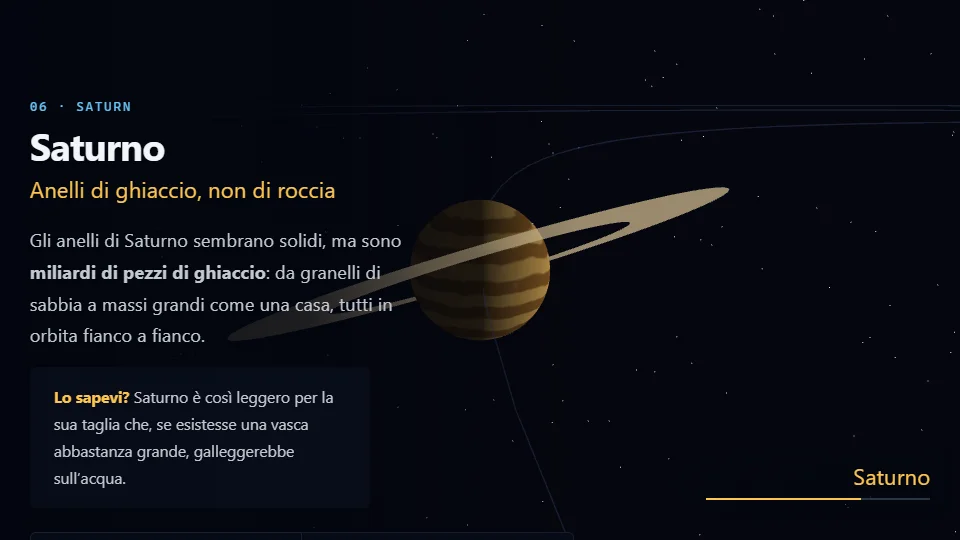
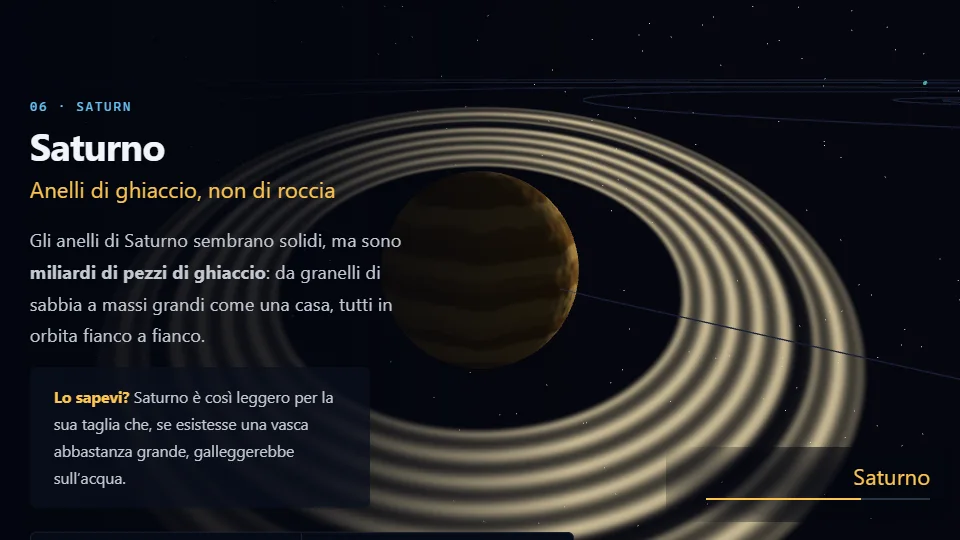
fix(demos): give the planets a surface, and let the camera travel (#34)
Raised by a viewer: the planets looked flat next to abyss, and moving
between them felt like a cut.

The planets were painted balls because the noise tinted their colour but
never bent the normal, so light slid across a perfect sphere. abyss bends
the normal along a noise gradient; porting that block is most of the
difference.

The camera teleported because it picked planets[floor(seg)] and let a
position lerp hide the jump — but the target itself was discontinuous,
and local was computed and never used. The aim point is now interpolated
between two planets, with a dwell on each and the crossing at the end of
its panel.

That exposed a third: every planet was a speck, because the offset
compounded to about 14x the radius. Distance is now solved for the
framing, d = r / tan(F * fov/2), taking Jupiter from 17% of frame height
to 35%.

Jupiter now has its Great Red Spot and Saturn's rings the Cassini
division, because the copy tells children about both and a render that
contradicts its own caption is worse than a plainer one. Plus rim light,
polar caps, a softer terminator, and a corona shader for the Sun.

Bumps the plugin to 1.7.1.

diff --git a/docs/demos/orbit/scene.js b/docs/demos/orbit/scene.js
@@ -28,8 +28,8 @@ const VERT = /* glsl */ `
    programs and keeps the whole family looking like one drawing. */
 const FRAG = /* glsl */ `
   precision highp float;
-  uniform vec3 uA, uB, uC;
-  uniform float uKind, uTime, uLit;
+  uniform vec3 uA, uB, uC, uRim;
+  uniform float uKind, uTime, uLit, uCap, uSpot, uSpotX, uBump, uBumpF;
   varying vec3 vPos;
   varying vec3 vWorld;
   varying vec3 vNormalW;
@@ -49,29 +49,64 @@ const FRAG = /* glsl */ `
     vec3 col;
 
     if (uKind < 0.5) {
-      // rocky: craters and patches
-      float m = fbm(n * 5.0);
-      col = mix(uA, uB, smoothstep(0.35, 0.72, m));
-      col = mix(col, uC, smoothstep(0.72, 0.95, fbm(n * 12.0)) * 0.55);
+      // rocky: continents or craters, plus ice where it is cold
+      float m = fbm(n * 4.2);
+      col = mix(uA, uB, smoothstep(0.36, 0.70, m));
+      col = mix(col, uC, smoothstep(0.70, 0.94, fbm(n * 11.0)) * 0.5);
+      // polar caps — every rocky planet here has them, and children look for them
+      float cap = smoothstep(0.74, 0.93, abs(n.y) - fbm(n * 5.0) * 0.10);
+      col = mix(col, vec3(0.93, 0.95, 0.99), cap * uCap);
     } else if (uKind < 1.5) {
-      // banded: latitude stripes, warped so they are not ruled lines
-      float lat = n.y + fbm(n * 2.6) * 0.16;
-      float band = sin(lat * 17.0) * 0.5 + 0.5;
-      col = mix(uA, uB, smoothstep(0.32, 0.68, band));
-      col = mix(col, uC, smoothstep(0.80, 1.0, fbm(n * 3.4)) * 0.7);
+      // banded: latitude stripes, warped so they never read as ruled lines
+      float lat = n.y + fbm(n * 2.4) * 0.18;
+      float band = sin(lat * 15.0) * 0.5 + 0.5;
+      band = mix(band, sin(lat * 31.0) * 0.5 + 0.5, 0.35);   // finer belts inside
+      col = mix(uA, uB, smoothstep(0.30, 0.70, band));
+      col = mix(col, uC, smoothstep(0.78, 1.0, fbm(n * 3.2)) * 0.6);
+
+      /* The Great Red Spot. The copy on the page tells children about it, so
+         the planet has to actually have one — a render that contradicts its
+         own caption is worse than a plainer render. */
+      vec2 sp = vec2(atan(n.z, n.x), asin(clamp(n.y, -1.0, 1.0)));
+      vec2 d = vec2((sp.x - uSpotX) * 0.55, sp.y + 0.32);
+      float spot = 1.0 - smoothstep(0.0, 0.30, length(d));
+      col = mix(col, vec3(0.72, 0.30, 0.20), spot * uSpot);
     } else {
-      // icy: smooth, faintly mottled
-      float m = fbm(n * 3.0);
-      col = mix(uA, uB, smoothstep(0.40, 0.75, m));
+      // icy: smooth, faintly mottled, with a brighter pole
+      float m = fbm(n * 2.6);
+      col = mix(uA, uB, smoothstep(0.40, 0.78, m));
+      col = mix(col, uC, smoothstep(0.80, 1.0, abs(n.y)) * 0.35);
     }
 
     /* One sun, at the origin. The first version dotted a view-space normal
        against a world-space direction and every planet came out nearly black:
        the spaces have to match. */
+    vec3 N = normalize(vNormalW);
+
+    /* Bend the normal along the gradient of the same field that coloured the
+       surface, so the light agrees with what you can see. This one block is
+       the difference between a painted ball and a world. */
+    float e = 0.035;
+    float h0 = fbm(n * uBumpF);
+    vec3 grad = vec3(
+      fbm(n * uBumpF + vec3(e, 0.0, 0.0)) - h0,
+      fbm(n * uBumpF + vec3(0.0, e, 0.0)) - h0,
+      fbm(n * uBumpF + vec3(0.0, 0.0, e)) - h0) / e;
+    N = normalize(N - (grad - N * dot(grad, N)) * uBump);
+
     vec3 toSun = normalize(-vWorld);
-    float lam = max(dot(normalize(vNormalW), toSun), 0.0);
-    float sun = mix(0.22, 1.0, pow(lam, 0.65));
-    gl_FragColor = vec4(col * mix(1.0, sun, uLit), 1.0);
+    float lam = max(dot(N, toSun), 0.0);
+    // a soft terminator rather than a hard one: real ones are not knife edges
+    float sun = mix(0.18, 1.0, smoothstep(-0.12, 0.55, dot(N, toSun)) * 0.65 + pow(lam, 0.8) * 0.35);
+    col *= mix(1.0, sun, uLit);
+
+    /* Rim light along the lit limb. On a plain sphere this one term is most of
+       what separates "a ball" from "a world with air around it". */
+    vec3 V = normalize(cameraPosition - vWorld);
+    float rim = pow(1.0 - max(dot(N, V), 0.0), 3.0) * max(dot(N, toSun) + 0.35, 0.0);
+    col += uRim * rim * 0.9;
+
+    gl_FragColor = vec4(col, 1.0);
   }`;
 
 export function createOrbit({ canvas, data } = {}) {
@@ -103,12 +138,31 @@ export function createOrbit({ canvas, data } = {}) {
 
   /* ---- the sun ---- */
   const sunGeo = new THREE.SphereGeometry(1, 40, 28);
-  const sun = new THREE.Mesh(sunGeo, new THREE.MeshBasicMaterial({ color: 0xffcf6b }));
+  let sunCorona = null;
+  const sun = new THREE.Mesh(sunGeo, new THREE.MeshBasicMaterial({ color: 0xffe0a0 }));
   scene.add(sun);
   {
-    const halo = new THREE.Mesh(new THREE.SphereGeometry(1.55, 32, 20),
-      new THREE.MeshBasicMaterial({ color: 0xffb03a, transparent: true, opacity: 0.16 }));
-    sun.add(halo);
+    /* An opaque-ish sphere at 16% read as a muddy brown ring. A corona has to
+       fade to nothing at its edge, so it is a shader, and it faces the camera
+       so it never shows as a sphere silhouette. */
+    const corona = new THREE.Mesh(new THREE.PlaneGeometry(7, 7), new THREE.ShaderMaterial({
+      transparent: true, depthWrite: false, blending: THREE.AdditiveBlending,
+      uniforms: { uTime: { value: 0 } },
+      vertexShader: `varying vec2 vUv; void main(){ vUv=uv;
+        gl_Position=projectionMatrix*modelViewMatrix*vec4(position,1.0); }`,
+      fragmentShader: `precision mediump float; varying vec2 vUv; uniform float uTime;
+        void main(){
+          float d = length(vUv - 0.5) * 2.0;
+          float core = pow(max(0.0, 1.0 - d * 3.2), 2.0);
+          float glow = pow(max(0.0, 1.0 - d), 3.4) * 0.55;
+          float flick = 0.94 + 0.06 * sin(uTime * 1.7);
+          vec3 c = mix(vec3(1.0, 0.62, 0.18), vec3(1.0, 0.90, 0.62), core);
+          gl_FragColor = vec4(c * (core + glow) * flick, (core + glow) * 0.95);
+        }`,
+    }));
+    corona.renderOrder = -1;
+    scene.add(corona);
+    sunCorona = corona;
   }
 
   /* ---- the planets ----
@@ -130,7 +184,13 @@ export function createOrbit({ canvas, data } = {}) {
     Neptune: [0x4a6fd0, 0x2f4aa0, 0x8fa8e8],
   };
 
-  const bodyGeo = new THREE.SphereGeometry(1, LOW ? 24 : 40, LOW ? 16 : 28);
+  /* Ice caps only where there are ice caps, and rim colour only where there is
+     an atmosphere to scatter it: Mercury has neither. */
+  const CAP = { Mercury: 0, Venus: 0, Earth: 0.9, Mars: 1.0, Jupiter: 0, Saturn: 0, Uranus: 0, Neptune: 0 };
+  const RIM = { Mercury: 0x000000, Venus: 0x6a5426, Earth: 0x2f6ea8, Mars: 0x5a3520,
+                Jupiter: 0x4a3a28, Saturn: 0x4a4130, Uranus: 0x2c5f68, Neptune: 0x24386f };
+
+  const bodyGeo = new THREE.SphereGeometry(1, LOW ? 32 : 56, LOW ? 20 : 36);
   const planets = [];
   const names = Object.keys(data).filter((k) => !k.startsWith("__"));
 
@@ -147,6 +207,13 @@ export function createOrbit({ canvas, data } = {}) {
         uKind: { value: KIND[name] },
         uTime: { value: 0 },
         uLit: { value: 1 },
+        uCap: { value: CAP[name] ?? 0 },
+        uSpot: { value: name === "Jupiter" ? 1 : 0 },
+        uSpotX: { value: 1.1 },
+        uRim: { value: new THREE.Color(RIM[name] ?? 0x000000) },
+        // rocky worlds are rough; gas and ice giants are smooth banded fluid
+        uBump:  { value: KIND[name] === 0 ? 0.55 : (KIND[name] === 1 ? 0.16 : 0.10) },
+        uBumpF: { value: KIND[name] === 0 ? 7.0  : (KIND[name] === 1 ? 3.0  : 2.4) },
       },
     });
     const mesh = new THREE.Mesh(bodyGeo, mat);
@@ -173,9 +240,24 @@ export function createOrbit({ canvas, data } = {}) {
 
     if (name === "Saturn") {
       const ring = new THREE.Mesh(
-        new THREE.RingGeometry(rWorld * 1.5, rWorld * 2.4, 64),
-        new THREE.MeshBasicMaterial({ color: 0xd9c396, side: THREE.DoubleSide,
-                                      transparent: true, opacity: 0.7 }));
+        new THREE.RingGeometry(rWorld * 1.35, rWorld * 2.5, 96, 1),
+        new THREE.ShaderMaterial({
+          side: THREE.DoubleSide, transparent: true, depthWrite: false,
+          uniforms: { uIn: { value: rWorld * 1.35 }, uOut: { value: rWorld * 2.5 } },
+          vertexShader: `varying vec3 vP; void main(){ vP=position;
+            gl_Position=projectionMatrix*modelViewMatrix*vec4(position,1.0); }`,
+          fragmentShader: `precision mediump float; varying vec3 vP;
+            uniform float uIn, uOut;
+            void main(){
+              float t = (length(vP.xy) - uIn) / (uOut - uIn);      // 0 inner .. 1 outer
+              // banding, and the Cassini division: the rings are not one disc
+              float band = 0.55 + 0.45 * sin(t * 46.0);
+              float cassini = smoothstep(0.60, 0.66, t) * (1.0 - smoothstep(0.70, 0.76, t));
+              float a = (0.30 + band * 0.55) * (1.0 - cassini * 0.92);
+              a *= smoothstep(0.0, 0.06, t) * (1.0 - smoothstep(0.93, 1.0, t));
+              gl_FragColor = vec4(vec3(0.90, 0.83, 0.66) * (0.7 + band * 0.3), a);
+            }`,
+        }));
       ring.rotation.x = Math.PI / 2 - 0.42;
       mesh.add(ring);
     }
@@ -190,6 +272,9 @@ export function createOrbit({ canvas, data } = {}) {
 
   const camPos = new THREE.Vector3();
   const camAim = new THREE.Vector3();
+  const aimA = new THREE.Vector3();
+  const aimB = new THREE.Vector3();
+  const smoothstep = (t) => { t = Math.min(1, Math.max(0, t)); return t * t * (3 - 2 * t); };
   const tmp = new THREE.Vector3();
 
   function update(dt) {
@@ -202,6 +287,10 @@ export function createOrbit({ canvas, data } = {}) {
       pl.mesh.rotation.y += dt * (pl.d.rot_days < 0 ? -0.35 : 0.35) / Math.abs(pl.d.rot_days) * 8;
     }
     sun.rotation.y += dt * 0.05;
+    if (sunCorona) {
+      sunCorona.material.uniforms.uTime.value += dt;
+      sunCorona.quaternion.copy(camera.quaternion);   // always face the viewer
+    }
 
     /* p runs 0..1 across the whole page. 0 = the sun, 1 = Neptune.
        In between it eases from one planet to the next and sits on each. */
@@ -211,22 +300,53 @@ export function createOrbit({ canvas, data } = {}) {
     state.focus = idx;
     const local = seg - idx;
 
-    const from = idx === 0 ? new THREE.Vector3(0, 0, 0) : null;
-    const target = planets[idx];
-    target.holder.getWorldPosition(camAim);
-    if (state.p < 0.02) camAim.set(0, 0, 0);
+    /* The camera travels BETWEEN planets instead of teleporting to the next
+       one. The first version picked planets[floor(seg)] and let a position
+       lerp hide the jump, which is why each arrival felt like a cut: the
+       *target* was discontinuous, and no amount of smoothing fixes a target
+       that moves instantly. `local` was even computed and then never used.
+       Now the aim point is itself interpolated, so the journey between two
+       worlds is something you watch rather than something you skip. */
+    const a = planets[idx];
+    const b = planets[Math.min(n - 1, idx + 1)];
+    a.holder.getWorldPosition(aimA);
+    b.holder.getWorldPosition(aimB);
 
-    // sit off to one side of whatever we are looking at, and pull back for
-    // the big ones so they still fit the frame
-    const r = state.p < 0.02 ? 1.0 : target.rWorld;
-    const back = Math.max(0.9, r * 4.2);
-    const ang = 0.6 + state.p * 2.2;
+    // ease so the camera lingers on a planet and hurries across the gap
+    /* Sit on a planet for three quarters of its panel, then cross. At 0.55 the
+       camera had already left by the time the panel was centred, so arriving at
+       #jupiter showed Jupiter from a fifth of the way to Saturn. */
+    const travel = local < 0.78
+      ? 0                                   // sitting on this planet
+      : smoothstep((local - 0.78) / 0.22);   // crossing to the next
+    camAim.copy(aimA).lerp(aimB, travel);
+
+    // the Sun is the first stop, so ease off it rather than starting beside it
+    if (state.p < 0.06) {
+      const t0 = smoothstep(state.p / 0.06);
+      camAim.multiplyScalar(t0);
+    }
+
+    const rA = a.rWorld, rB = b.rWorld;
+    const r = state.p < 0.03 ? 1.0 : rA + (rB - rA) * travel;
+
+    /* Distance is solved for the framing we want rather than guessed: to fill
+       a fraction F of the frame height, d = r / tan(F * fov / 2). The earlier
+       version multiplied an offset by 1.5 on two axes and added 0.9 on a third,
+       which compounded to ~14x the radius and left every planet a speck. */
+    const FILL = 0.42;
+    const half = THREE.MathUtils.degToRad(camera.fov) * 0.5;
+    const dist = Math.max(2.2, r / Math.tan(FILL * half));
+
+    // one continuous swing around the system rather than a per-planet reset
+    const ang = 0.55 + state.p * 3.1;
     camPos.set(
-      camAim.x + Math.cos(ang) * back * 1.5,
-      camAim.y + back * 0.55 + 0.15,
-      camAim.z + Math.sin(ang) * back * 1.5 + back * 0.9
+      camAim.x + Math.cos(ang) * dist * 0.82,
+      camAim.y + dist * 0.30,
+      camAim.z + Math.sin(ang) * dist * 0.82 + dist * 0.42
     );
-    camera.position.lerp(camPos, Math.min(1, dt * 3.4));
+    // slower follow while crossing, so the gap reads as distance covered
+    camera.position.lerp(camPos, Math.min(1, dt * (travel > 0 ? 2.4 : 4.0)));
     camera.lookAt(camAim);
   }
 

diff --git a/docs/demos/orbit/SCORE.md b/docs/demos/orbit/SCORE.md
@@ -55,6 +55,31 @@ shares one sphere and one shader with a `uKind` switch.
 - **The NASA fact sheet is gone**, and every URL under it returns the same SPA shell with
   a 200. A 200 is not a success; checking the parsed row count is what caught it.
 
+### Found after a first look, by someone else
+
+A viewer said the planets looked flat next to the `abyss` demo, and that arriving at each
+one felt like a cut. Both were right, and both had a specific cause.
+
+- **The planets were painted balls.** The noise tinted their colour but never bent the
+  normal, so light slid over a perfect sphere. `abyss` bends the normal along a noise
+  gradient, and porting that one block is most of the difference. Rocky worlds get strong
+  relief; gas giants get almost none, because they are fluid.
+- **The camera teleported.** It picked `planets[floor(seg)]` and let a position lerp hide
+  the jump — but the *target* was discontinuous, and no amount of smoothing repairs a
+  target that moves instantly. `local` was computed and then never used. The aim point is
+  now interpolated between two planets, with a dwell on each and a crossing at the end of
+  its panel, so the distance between worlds is something you watch rather than skip.
+- **Then every planet was a speck.** The camera offset multiplied the radius on two axes
+  and added more on a third — roughly 14× the radius. Distance is now *solved* for the
+  framing rather than guessed: `d = r / tan(F · fov/2)`. Measured, not eyeballed — Jupiter
+  went from 17% of frame height to 35%.
+- **Jupiter had no Great Red Spot** while the copy told children about it, and **Saturn's
+  rings were one solid disc** while the copy said they are billions of separate pieces.
+  A render that contradicts its own caption is worse than a plainer render; both are now
+  drawn, the rings with banding and the Cassini division.
+- **The Sun's halo was an opaque sphere at 16% opacity** and read as a muddy brown ring.
+  A corona has to fade to nothing at its edge, so it is a camera-facing shader instead.
+
 ## Scored
 
 **Design ×0.40 → 7.5.** Type is deliberately larger and the measure shorter than the other
